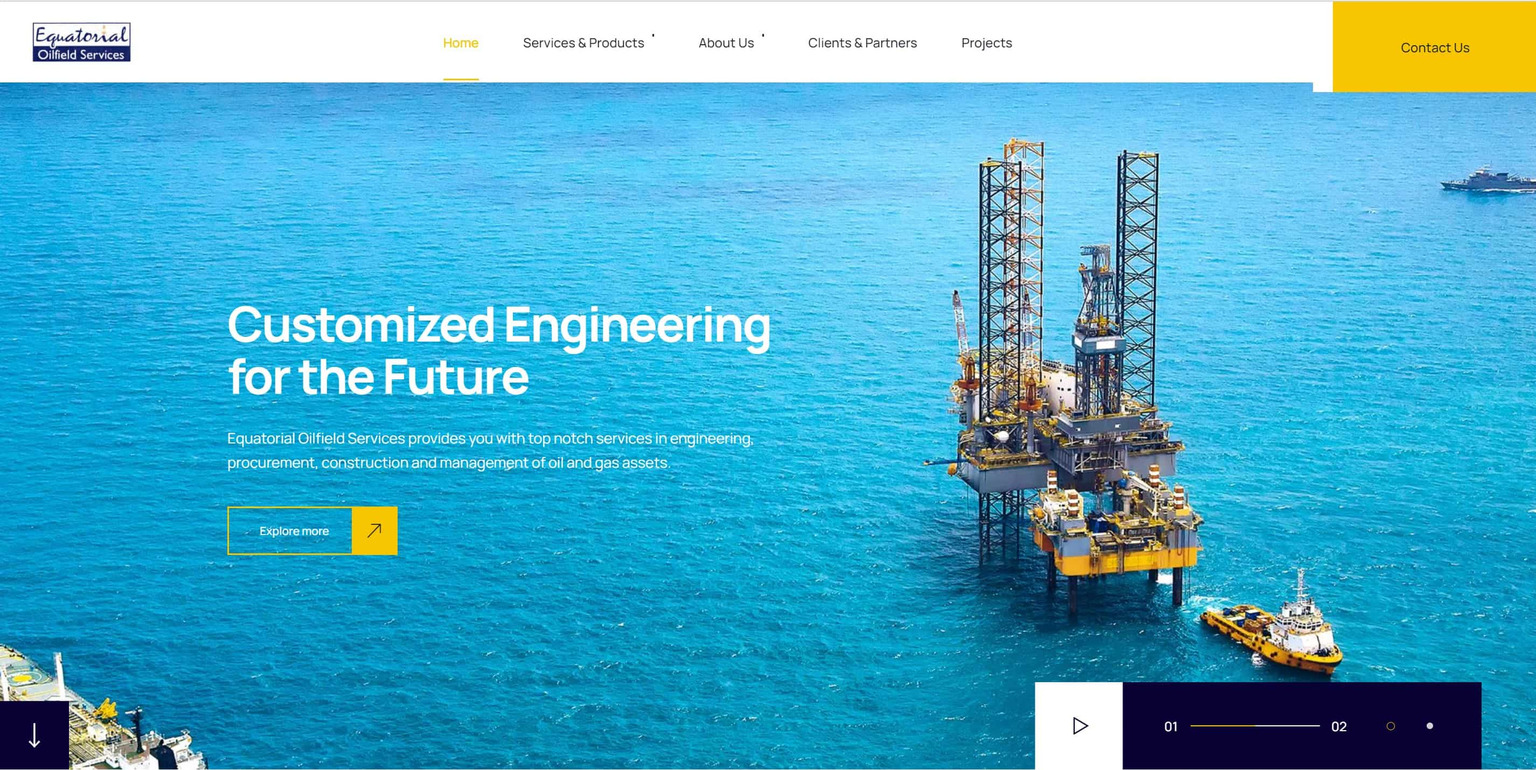
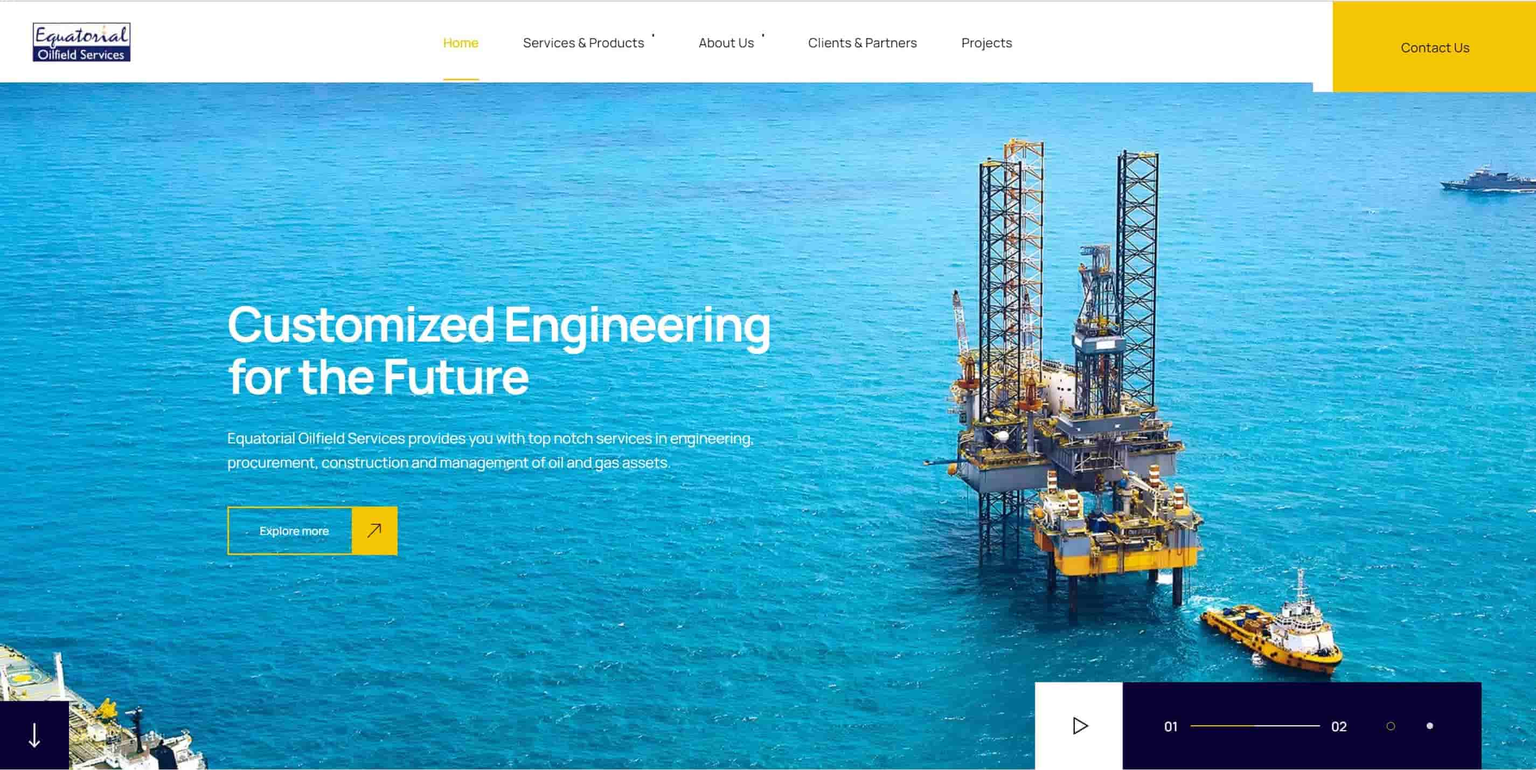
changed header picture and reduced image sizes for faster load

diff --git a/index.css b/index.css
@@ -433,8 +433,8 @@ body:not(.user-is-tabbing) a:focus {
 /* --------------------------------------- */
 
 .header {
-  background: linear-gradient(rgba(0, 0, 0, 0.1), rgba(0, 0, 0, 0.4)),
-    url("./images/header.jpg");
+  background: linear-gradient(rgba(0, 0, 0, 0.8), rgba(0, 0, 0, 1)),
+    url("./images/header2.jpg");
   height: 100vh;
   background-size: cover;
   background-position: center;

diff --git a/index.html b/index.html
@@ -54,7 +54,7 @@
 
             <span>Ndjock Michel Junior</span>
           </h1>
-          <p>A Fullstack Web Developer based in Bamenda, Cameroon.</p>
+          <p>A Fullstack Developer based in Bamenda, Cameroon.</p>
           <a href="#contact" class="btn btn--pink">Get in touch</a>
         </div>
       </div>
